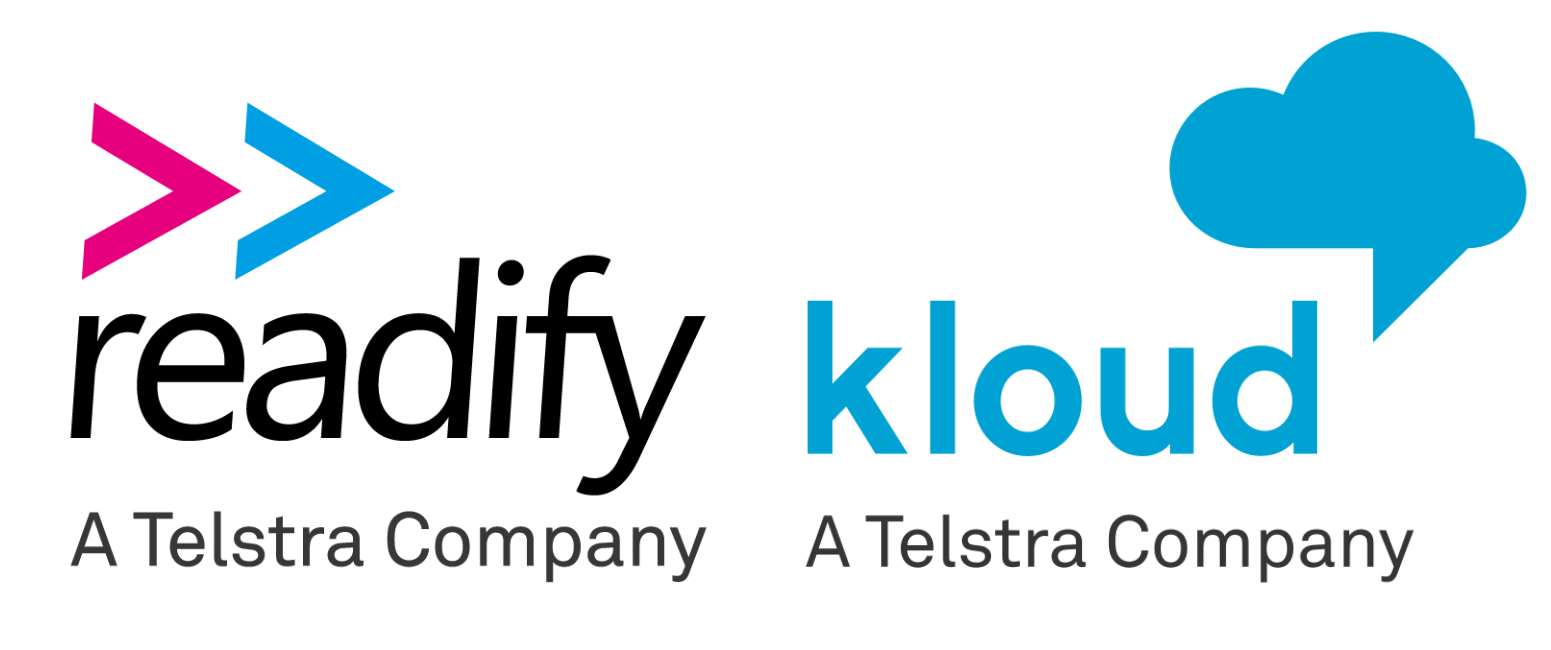
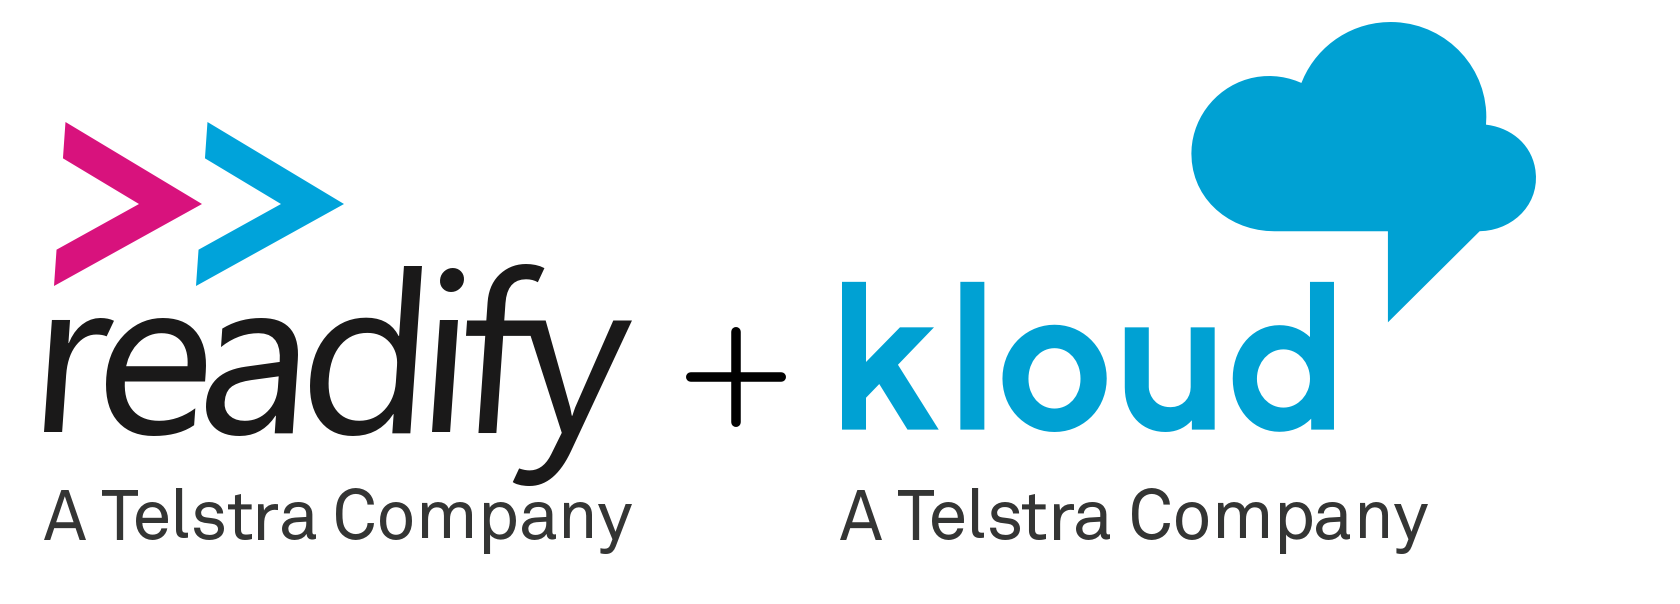
Updated Readify + Kloud

Changed region(s): [[0.0, 0.149, 0.4642, 0.9238], [0.4952, 0.0298, 0.9903, 0.7152], [0.4952, 0.7748, 0.9284, 0.9238]]

diff --git a/config/sponsors.ts b/config/sponsors.ts
@@ -34,7 +34,7 @@ const Sponsors: Sponsor[] = [
   },
   {
     imageUrl: '/static/images/sponsors/readify-kloud.png',
-    name: 'Readify / Kloud',
+    name: 'Readify + Kloud',
     type: SponsorType.Gold,
     url: 'https://readify.net/',
   },
